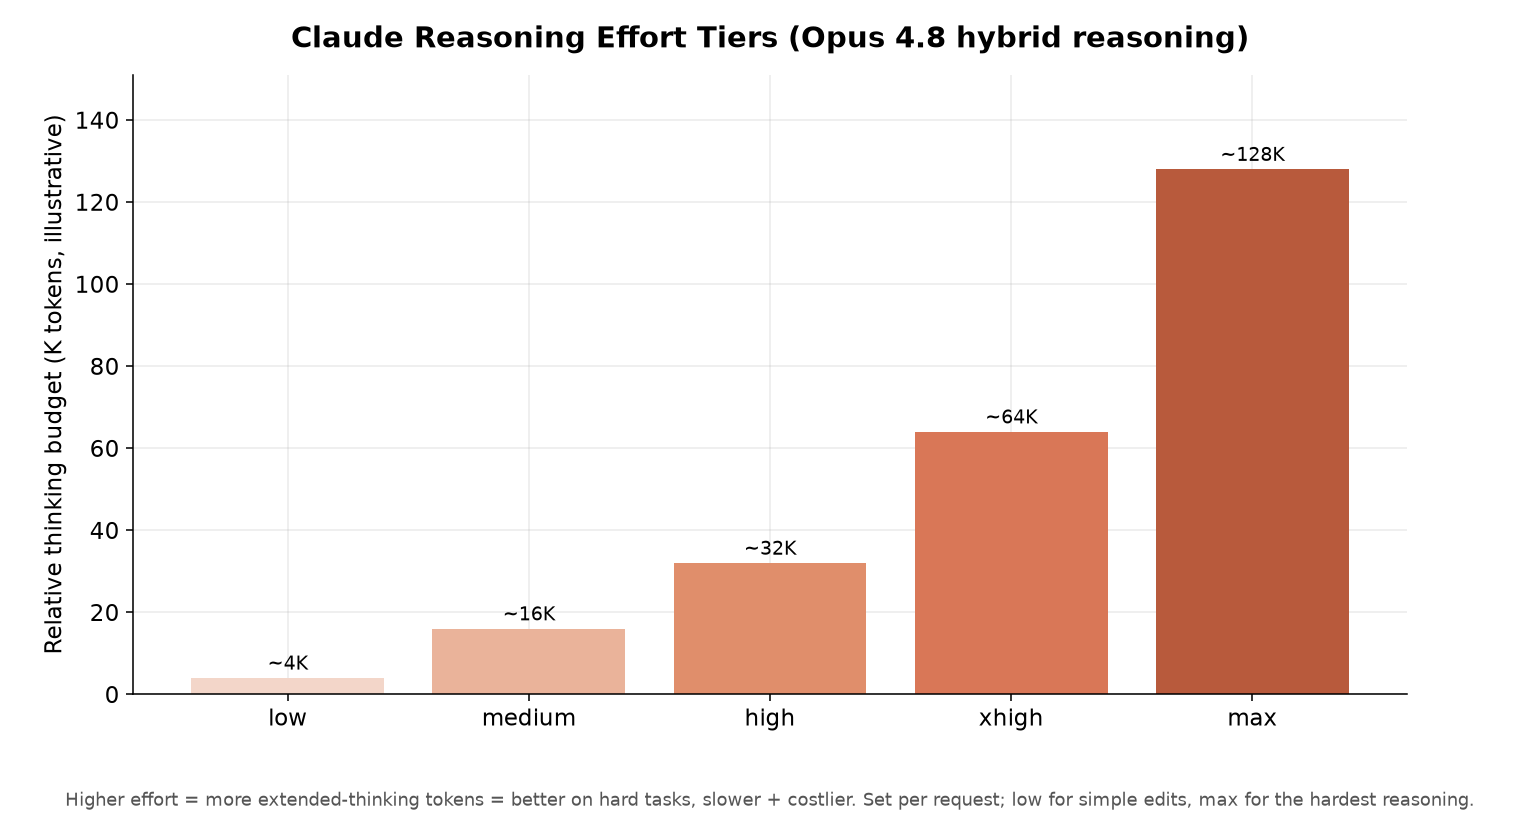
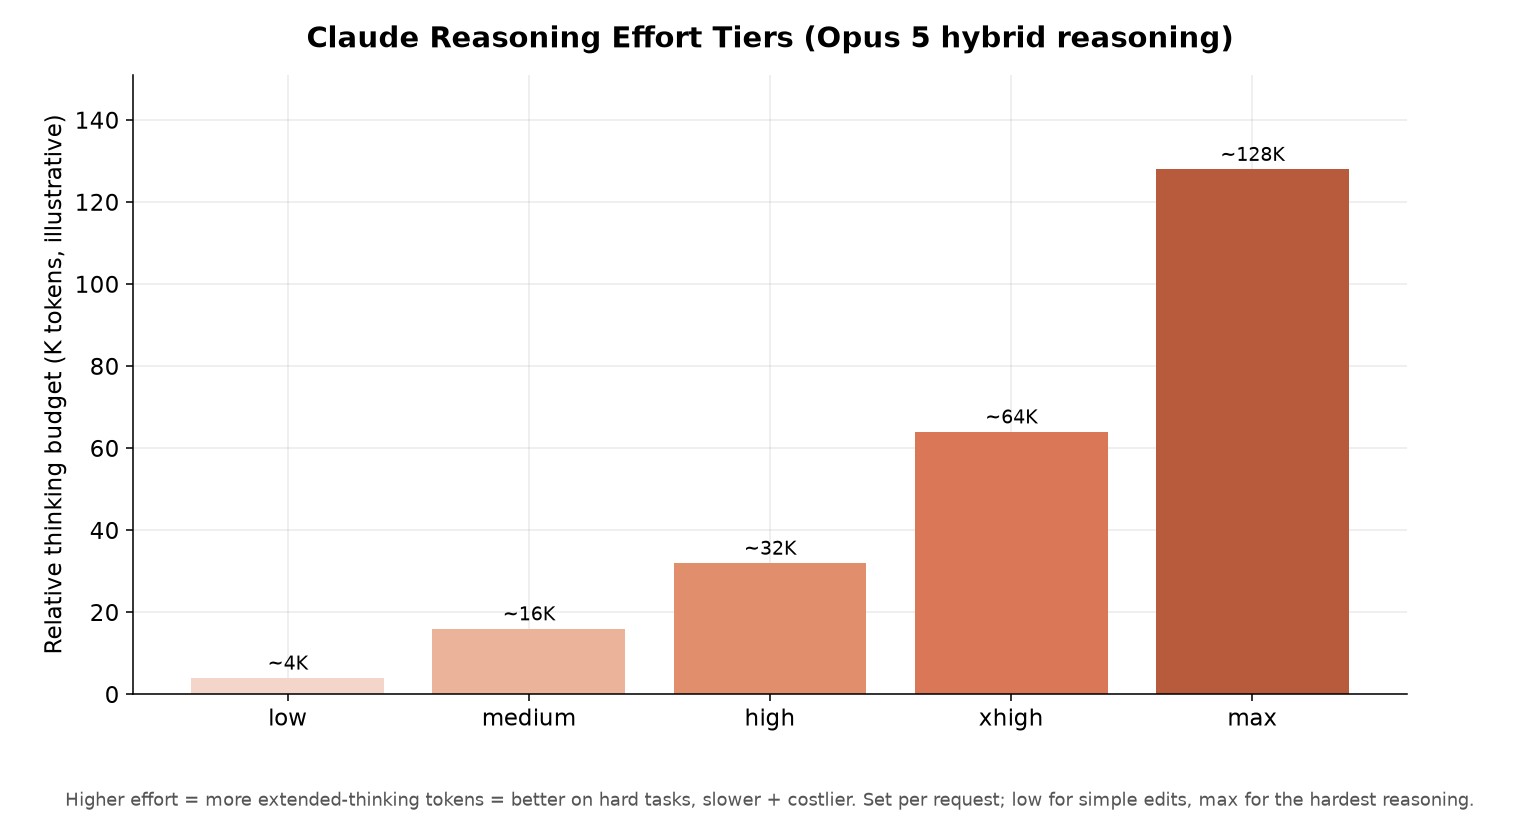
fix: opus not on claude.ai free plan; point free-access at opus 5
- claude.ai free tier = sonnet 5 capped, NOT opus (user correction) — fixed in FREE-ACCESS.md section, AGENTS.md chat table, README quick ref, CREDITS playbook
- opus 4.8 -> opus 5 as current flagship in trials/credit rows + bedrock/vertex model ids (claude-opus-5)
- stale deepseek v4 flash $0.28 -> $0.66 off-peak in multi-tier routing recipe
- claude-effort chart title -> opus 5, regenerated

🤖 Generated with Codebuff

Changed region(s): [[0.187, 0.031, 0.8104, 0.0619]]

diff --git a/charts/gen_charts.py b/charts/gen_charts.py
@@ -112,7 +112,7 @@ fig, ax = plt.subplots(figsize=(11, 6))
 shades = ["#f3d6c9", "#eab39a", "#e08e6b", "#d97757", "#b85a3c"]
 bars = ax.bar(ce["tiers"], ce["budget_k"], color=shades)
 ax.set_ylabel("Relative thinking budget (K tokens, illustrative)")
-ax.set_title("Claude Reasoning Effort Tiers (Opus 4.8 hybrid reasoning)", fontweight="bold", fontsize=15, pad=14)
+ax.set_title("Claude Reasoning Effort Tiers (Opus 5 hybrid reasoning)", fontweight="bold", fontsize=15, pad=14)
 for b, v in zip(bars, ce["budget_k"]):
     ax.text(b.get_x()+b.get_width()/2, v+2, f"~{v}K", ha="center", fontsize=10)
 ax.text(0.5, -0.18,

diff --git a/FREE-ACCESS.md b/FREE-ACCESS.md
@@ -117,7 +117,7 @@ All endpoints are OpenAI SDK-compatible unless noted.
 
 | Provider | Credits | Expiry | Models | How |
 |---|---|---|---|---|
-| **Anthropic** | $5 | 90 days | All Claude incl. Opus 4.8 | console.anthropic.com |
+| **Anthropic** | $5 | 90 days | All Claude incl. Opus 5 | console.anthropic.com |
 | **OpenAI** | $5 | 90 days | All GPT incl. GPT-5.5 | platform.openai.com |
 | **DeepSeek** | $5 | 30 days | V4 Pro / V4 Flash | platform.deepseek.com |
 | **AWS Bedrock** | $300 | 90 days | Claude, Llama, Titan | New AWS account |
@@ -135,18 +135,20 @@ All endpoints are OpenAI SDK-compatible unless noted.
 | **Nebius** | Signup credits | — | Open models (EU); OpenRouter partner | nebius.com |
 
 > **Stack strategy:** AWS ($300) + GCP ($300) + Azure ($200) = **$800+** in cloud AI credits.
-> Run Opus 4.8 ($25/M out) or GPT-5.5 ($30/M out) for months at zero cost.
+> Run Opus 5 ($25/M out) or GPT-5.6 ($30/M out) for months at zero cost.
 
 ---
 
-## How to Access Claude Opus 4.8 For Free
+## How to Access Claude Opus 5 For Free
+
+> **Corrected 17 Aug 2026:** Opus is **not** on the Claude.ai free plan — the free tier is Sonnet 5 (daily-capped) plus Haiku. Opus 5 (current flagship, Jul 24, $5/$25) needs Pro/Max, an API trial, or cloud credits. The old "Opus 4.8 on the free plan" claim was wrong and has been removed; 4.8 is superseded history (still scored 88.6% SWE-bench).
 
 ### Ongoing Access
 
 | Method | Limits | How |
 |---|---|---|
-| **Claude.ai free plan** | Daily message cap | claude.ai |
-| **Puter.js** | None listed | developer.puter.com — free unlimited |
+| **Claude.ai free plan** | Sonnet 5 (daily message cap) — **not Opus** | claude.ai |
+| **Puter.js** | None listed | developer.puter.com — free unlimited (GLM/Qwen/etc.; Claude availability is the user-pays model — check the catalog) |
 | **Anthropic Open Source** | 6 months Claude Max ($200/mo value) | Open-source maintainers — anthropic.com/open-source |
 
 ### Trial / Limited
@@ -155,8 +157,8 @@ All endpoints are OpenAI SDK-compatible unless noted.
 |---|---|---|---|
 | **Anthropic API trial** | $5 credits | 90 days | console.anthropic.com |
 | **Notion Business Trial** | Unlimited Opus (strong claim, not re-verified this pass — Notion's tiering changed recently, confirm before relying on it) | 30 days | notion.so → start Business trial |
-| **AWS Bedrock** | $300 credits | 90 days | Model ID: `anthropic.claude-opus-4-8` |
-| **Google Vertex AI** | $300 credits | 90 days | Model: `claude-opus-4-8@anthropic` |
+| **AWS Bedrock** | $300 credits | 90 days | Model ID: `anthropic.claude-opus-5` |
+| **Google Vertex AI** | $300 credits | 90 days | Model: `claude-opus-5@anthropic` |
 | **Azure AI Foundry** | $200 credits | 30 days | Azure AI Studio → Anthropic models |
 
 ---

diff --git a/README.md b/README.md
@@ -104,7 +104,7 @@
 | GPT-5.5 | 88.7% | $30 | 1M |
 | Claude Opus 4.8 | 88.6% | $25 | 1M |
 
-> GPT-5.6 (Sol/Terra/Luna) went GA on **Jul 9, 2026** across ChatGPT, Codex, and the API. SWE-bench figures are estimates; OpenAI published Terminal-Bench for the family.
+> Claude **Opus 5** (current flagship, Jul 24, $5/$25, 1M ctx) has no public SWE-bench yet — the 88.6% above is Opus 4.8's published score, closest available. GPT-5.6 (Sol/Terra/Luna) went GA on **Jul 9, 2026** across ChatGPT, Codex, and the API. SWE-bench figures are estimates; OpenAI published Terminal-Bench for the family.
 
 ### Best value (sweet spot)
 | Model | SWE-bench | Out $/1M | Savings vs GPT-5.5 |
@@ -196,11 +196,11 @@
 | Sandbox / eval | E2B · Daytona · Vercel Sandbox; Langfuse / AgentOps for tracing | $0–$30/mo credits | [BACKEND.md](./BACKEND.md) Part 1A · [MEDIA.md](./MEDIA.md) Part 3 |
 | Judge it | TB 2.1 for agents (official snapshot) · SWE-bench for models (harness-aware) | — | [AGENTS.md](./AGENTS.md) · [MODELS.md](./MODELS.md) |
 
-### Opus 4.8 free access
-- **claude.ai** — daily cap on free plan
-- **Anthropic API trial** — $5/90 days → console.anthropic.com
-- **AWS Bedrock** new account — $300 credits/90 days
-- **Notion Business trial** — 30 days unlimited
+### Opus 5 free access (corrected Aug 17)
+- **claude.ai** — free plan is **Sonnet 5, not Opus**; Opus 5 needs Pro/Max ($17+/mo)
+- **Anthropic API trial** — $5/90 days → console.anthropic.com (covers Opus 5)
+- **AWS Bedrock** new account — $300 credits/90 days, model `anthropic.claude-opus-5`
+- **Notion Business trial** — 30 days unlimited (unverified this pass)
 
 ---
 

diff --git a/CREDITS.md b/CREDITS.md
@@ -38,7 +38,7 @@
 | **AWS Bedrock** (new acct) | $300* | Yes | 90 days | Claude/Llama/Titan | aws.amazon.com/free |
 | **Azure AI Foundry** | $200 | Yes | 30 days | GPT, Claude, Llama, 1,700+ models | azure.microsoft.com/free |
 | **Oracle Cloud** | $300 | Yes | 30 days + always-free VMs | Free ARM VMs forever | oracle.com/cloud/free |
-| **Anthropic API** | $5 | No | 90 days | All Claude incl. Opus 4.8 | console.anthropic.com |
+| **Anthropic API** | $5 | No | 90 days | All Claude incl. Opus 5 | console.anthropic.com |
 | **OpenAI** | $5 | No | 90 days | All GPT | platform.openai.com |
 | **DeepSeek** | $5 | No | 30 days | V4 Pro/Flash | platform.deepseek.com |
 | **Together AI** | ~$1 | No | 30–90 days | Open models (free promos ended) | together.ai |
@@ -124,7 +124,7 @@ Already paying for Claude Code / ChatGPT / Copilot? Route those models into your
 ## Maximal-Free Playbook
 
 1. **Daily coding** → free LLM keys (Groq + Cerebras + Google AI Studio + OpenRouter `:free`), routed via LiteLLM/OpenRouter to multiply quotas. → [FREE-ACCESS.md](./FREE-ACCESS.md)
-2. **Need a frontier model** → burn a trial: Anthropic $5 / Vertex $300 / Bedrock $300, model `anthropic.claude-opus-4-8`.
+2. **Need a frontier model** → burn a trial: Anthropic $5 / Vertex $300 / Bedrock $300, model `anthropic.claude-opus-5`. (Opus is NOT on the Claude.ai free plan — free tier is Sonnet 5, capped.)
 3. **Student?** → GitHub Student Pack = Copilot Pro + $100 Azure + $200 DO + $50 Mongo.
 4. **Building a startup?** → Google $350K AI-First / Azure Founders / AWS GenAI.
 5. **Own a Copilot/Claude sub?** → CLIProxyAPI to reuse it as an API.

diff --git a/MODELS.md b/MODELS.md
@@ -247,7 +247,7 @@ API updates above, which add thinking-effort levels (low/high/max) and Responses
 
 > ⚠ Subscription proxies are reverse-engineered — ToS/account-ban risk. `iFlow` and `Qwen` free tiers were **discontinued in 2026**; use Kiro / OpenCode-Free / Vertex instead. `Gemini CLI`'s free tier is still live (60 req/min, 1,000 req/day) — a discontinuation claim here in a prior pass was unverified and has been removed. See [AGENTS.md](./AGENTS.md) Part 1.
 
-**Multi-tier routing (the dominant 2026 production pattern):** Tier 1 ≈70% → DeepSeek V4 Flash ($0.28/M) · Tier 2 ≈25% → Kimi K2.6 / GLM-5.1 (≈$1/M) · Tier 3 ≈5% → Opus 4.8. Saves **85–95%** on coding-API cost vs all-Opus, <10% quality loss.
+**Multi-tier routing (the dominant 2026 production pattern):** Tier 1 ≈70% → DeepSeek V4 Flash ($0.66/M out off-peak — GA pricing since Aug 16) · Tier 2 ≈25% → Kimi K2.6 / GLM-5.1 (≈$1/M) · Tier 3 ≈5% → Opus 5. Saves **85–95%** on coding-API cost vs all-Opus, <10% quality loss.
 
 ---
 

diff --git a/AGENTS.md b/AGENTS.md
@@ -329,7 +329,7 @@ brew install aionui
 
 | Interface | By | Best Model | Free | Price | Standout Feature |
 |---|---|---|---|---|---|
-| **Claude.ai** | Anthropic | Opus 5 / Sonnet 5 | Yes (daily cap) | Pro $17/mo | Best reasoning, Artifacts, Projects |
+| **Claude.ai** | Anthropic | Sonnet 5 on free (capped) · Opus 5 on Pro/Max | Yes (Sonnet 5, not Opus) | Pro $17/mo | Best reasoning, Artifacts, Projects |
 | **ChatGPT** | OpenAI | GPT-5.6 / GPT-5.5 | Yes | Plus $20/mo | Canvas, code exec, image gen, deep research |
 | **Gemini** | Google | Gemini 3.7 Flash (free) / 3.1 Pro | Yes | AI Pro $19.99/mo | Deep Research, Google Workspace |
 | **chat.z.ai** | Z.AI / Zhipu | GLM-5.2 (1M ctx, unverified) | Yes (generous) | Coding $3/mo | Web chat is free; the GLM-5.2 API itself is paid ($1.40/$4.40 per 1M, see [MODELS.md](./MODELS.md)) — don't read "developer API free" from the free web chat. MIT-license claim not confirmed on the official pricing doc |
